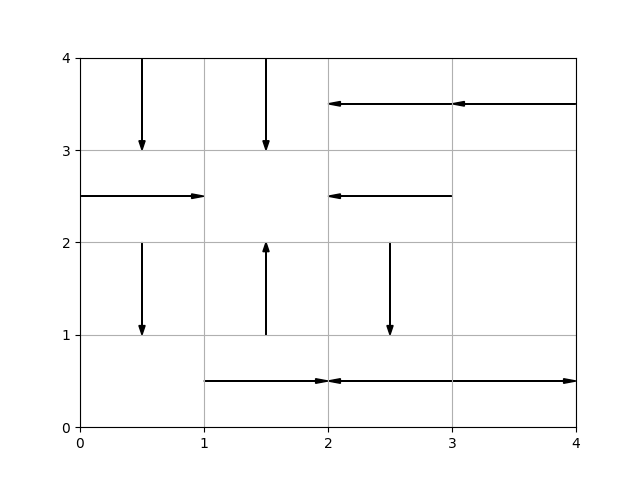
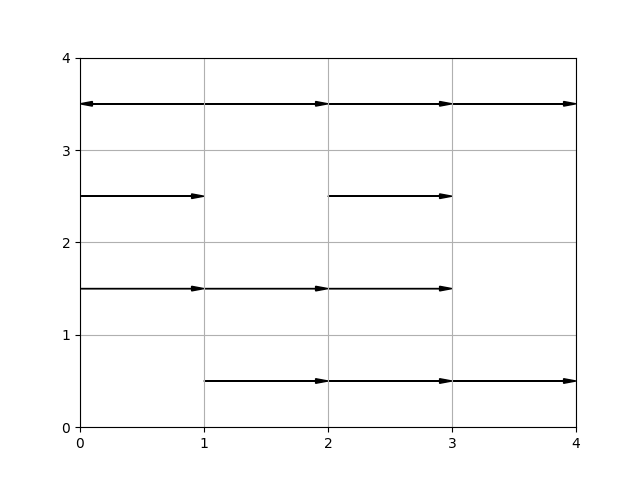
grid picture changes

diff --git a/ddqn.py b/ddqn.py
@@ -30,8 +30,8 @@ class DoubleDQNAgent:
         self.action_size = action_size
 
         # these is hyper parameters for the Double DQN
-        self.discount_factor = 0.6
-        self.learning_rate = 0.01
+        self.discount_factor = 0.9
+        self.learning_rate = 0.001
         if TEST:
             self.epsilon = 0.0
         else:
@@ -55,8 +55,8 @@ class DoubleDQNAgent:
     # state is input and Q Value of each action is output of network
     def _build_model(self):
         model = Sequential()
-        model.add(Dense(16, input_dim=self.state_size, activation='relu', kernel_initializer='he_uniform'))
-        #model.add(Dense(16, input_dim=self.state_size, activation='relu', kernel_initializer='he_uniform'))
+        model.add(Dense(30, input_dim=self.state_size, activation='relu', kernel_initializer='he_uniform'))
+        model.add(Dense(30, activation='relu', kernel_initializer='he_uniform'))
         model.add(Dense(self.action_size, activation='linear', kernel_initializer='he_uniform'))
         model.summary()
         model.compile(loss='mse', optimizer=Adam(lr=self.learning_rate))
@@ -73,6 +73,10 @@ class DoubleDQNAgent:
         else:
             q_value = self.model.predict(state)
             return np.argmax(q_value[0])
+
+    def get_qvals(self, state):
+        q_value = self.model.predict(state)
+        return q_value[0]
 
     # save sample <s,a,r,s'> to the replay memory
     def replay_memory(self, state, action, reward, next_state, done):
@@ -106,7 +110,7 @@ class DoubleDQNAgent:
                 #target[action] = reward + self.discount_factor * np.amax(t)
                 a = np.argmax(self.model.predict(next_state)[0])
                 target[action] = reward + self.discount_factor * \
-                        (self.target_model.predict(next_state)[0][a])
+                        self.target_model.predict(next_state)[0][a]
 
 
             update_input[i] = state
@@ -155,10 +159,14 @@ if __name__ == "__main__":
             next_state, reward, done, info = env.step(action)
             next_state = np.reshape(next_state, [1, state_size])
 
+
             if done and next_state != 15:
-                reward = -100
-            if done and next_state == 15:
-                reward = 1000
+                reward = -1
+            elif done and next_state == 15:
+                reward = 1
+            elif state == next_state: # if it tried to go off the map
+                reward = -1
+
 
             if not TEST:
                 # save the sample <s, a, r, s'> to the replay memory
@@ -190,8 +198,8 @@ if __name__ == "__main__":
                 if np.mean(scores[-min(10, len(scores)):]) >= 999:
                     agent.save_model("./FrozenLake_DoubleDQN.h5")
 
-                    dirs = [agent.get_action([tile]) for tile in WALKABLE]
-                    dir_map.save_map(positions=WALKABLE, directions=dirs, \
+                    qvals = [agent.get_action([tile]) for tile in WALKABLE]
+                    dir_map.save_map(positions=WALKABLE, qvalues=qvals, \
                                     map_dim=(4, 4), name='FrozenLake_DoubleDQN_' + str(e))
                     sys.exit()
 
@@ -199,12 +207,12 @@ if __name__ == "__main__":
         if e % 100 == 0:
             agent.save_model("./FrozenLake_DoubleDQN.h5")
 
-            dirs = [agent.get_action([tile]) for tile in WALKABLE]
-            dir_map.save_map(positions=WALKABLE, directions=dirs, \
+            qvals = [agent.get_qvals([tile]) for tile in WALKABLE]
+            dir_map.save_map(positions=WALKABLE, qvalues=qvals, \
                             map_dim=(4, 4), name='FrozenLake_DoubleDQN_' + str(e))
 
     agent.save_model("./FrozenLake_DoubleDQN.h5")
 
-    dirs = [agent.get_action([tile]) for tile in WALKABLE]
-    dir_map.save_map(positions=WALKABLE, directions=dirs, \
+    qvals = [agent.get_qvals([tile]) for tile in WALKABLE]
+    dir_map.save_map(positions=WALKABLE, qvalues=qvals, \
                     map_dim=(4, 4), name='FrozenLake_DoubleDQN_' + str(e))

diff --git a/DirectionMap.py b/DirectionMap.py
@@ -28,10 +28,13 @@ INDEX MAP
 
 
 # plot a direction map so you know what the best move is for each tile
-def save_map(positions, directions, map_dim, name):
-    strengths = []
+def save_map(positions, qvalues, map_dim, name):
+    directions = []
     arrows = []
     count = 0
+
+    for qval in qvalues:
+        directions += [np.argmax(qval)]
 
     # -1 for zero index
     x_dim = map_dim[1] # x == columns
@@ -69,6 +72,7 @@ def save_map(positions, directions, map_dim, name):
     plt.xlim(xmin=0, xmax=x_dim)
     plt.ylim(ymin=0, ymax=y_dim)
     plt.savefig('./tile_maps/' + name + '.png')
+    plt.close()
 
 '''
 if __name__ == '__main__':
